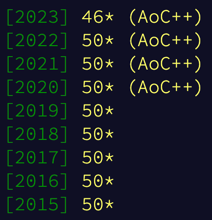
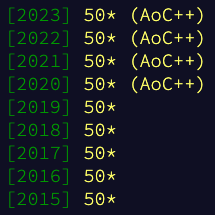
2023 - Done!

diff --git a/README.md b/README.md
@@ -11,6 +11,8 @@ fmmr solutions for Advent of code.
 [Implementations](https://github.com/fmmr/advent/tree/master/src/main/kotlin/no/rodland/advent_2023),
 [Tests](https://github.com/fmmr/advent/tree/master/src/test/kotlin/no/rodland/advent_2023)
 
+![ascii art](gifs/2023.gif?raw=true "ascii art")
+
 ## 2022
 
 [AOC](https://adventofcode.com/2022),
